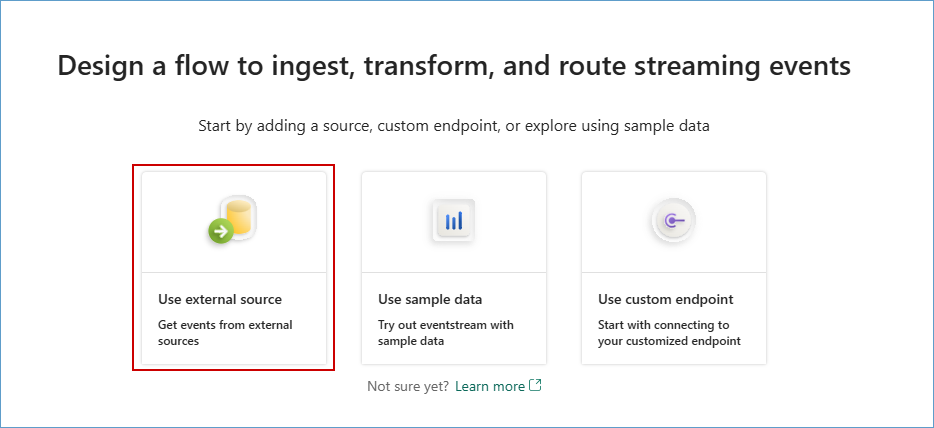
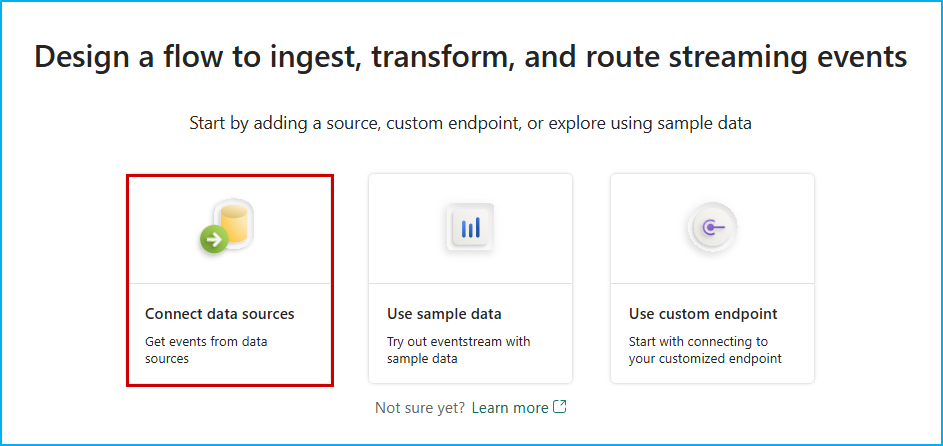
commit

diff --git a/exercise5.md b/exercise5.md
@@ -54,7 +54,7 @@ In the exercise, we’ll explore how Data Engineer, Eva, ingested real-time data
 
    ![Eventst-name1.png](media/labMedia/f47.png)
 
-6. Click on **Use external source**. 
+6. Click on **Connect data sources**. 
 
    ![eventhouse12.png](media/labMedia/eventhouse12.png)
 
@@ -66,7 +66,7 @@ In the exercise, we’ll explore how Data Engineer, Eva, ingested real-time data
 
    ![eventhouse13.png](media/labMedia/eventhouse13.png)
 
-9. Enter the value for the **Event Hub namespace** as **<inject key= "eventhubNamespace" enableCopy="true"/>** and enter the **Event Hub** value as thermostat.
+9. Enter the value for the **Event Hub namespace** as **<inject key= "eventhubNamespace" enableCopy="true"/>** and enter the **Event Hub** value as **thermostat**.
 
    ```BASH
    thermostat
@@ -75,12 +75,12 @@ In the exercise, we’ll explore how Data Engineer, Eva, ingested real-time data
    ![task-5.2.5-2.png](media/labMedia/task-5.2.5-2.png)
 
 
-14. Scroll down and select **Shared Access Key** from Authentication kind dropdown, enter the Shared Access Key Name as **thermostat**.
+10. Scroll down and select **Shared Access Key** from Authentication kind dropdown, enter the Shared Access Key Name as **thermostat**.
 
     ```BASH
         thermostat
     ```
-15. Provide the **Shared access Key** as: **<inject key= "EventHubPolicyPrimaryKey" enableCopy="true"/>** and click on **Connect** button.
+11. Provide the **Shared access Key** as: **<inject key= "EventHubPolicyPrimaryKey" enableCopy="true"/>** and click on **Connect** button.
 
     >**Note:** Do not check in box to allow connection to be utilized with either on-premises or VNet data gateways.
 
@@ -90,33 +90,33 @@ In the exercise, we’ll explore how Data Engineer, Eva, ingested real-time data
 
     ![pop-up3.png](media/labMedia/pop-up3.png)
 
-16. Select Data format as **JSON** and click on the **Next** button.
+12. Select Data format as **JSON** and click on the **Next** button.
 
     ![eventhouse15.png](media/labMedia/eventhouse15.png)
 
     >**Note:** Wait for the connection to be established.
 
-17. Click on the **Add** button.
+13. Click on the **Add** button.
 
     ![task-5.2.1new8.png](media/labMedia/task-5.2.1new8.png)
 
-18. In the Eventstream canvas, click on the **Add destination** dropdown and select **Eventhouse**.
+14. In the Eventstream canvas, click on the **Add destination** dropdown and select **Eventhouse**.
 
     ![sel-kql-db.png](media/labMedia/sel-kql-db.png)
 
-19. Select the **Event processing before ingestion** radio button, enter **RealTimeData** as the Destination name.
+15. Select the **Event processing before ingestion** radio button, enter **RealTimeData** as the Destination name.
 
     ```BASH
     RealTimeData
     ```
 
-20. In the **Workspace** field select **<inject key= "WorkspaceName" enableCopy="true"/>**. 
+16. In the **Workspace** field select **<inject key= "WorkspaceName" enableCopy="true"/>**. 
 
-21. In the **Eventhouse** dropdown select **Contoso-Eventhouse**.
+17. In the **Eventhouse** dropdown select **Contoso-Eventhouse**.
 
-22. In the **KQL Database** dropdown select **Contoso-Eventhouse**.
+18. In the **KQL Database** dropdown select **Contoso-Eventhouse**.
 
-23. Click on the **Create new** button under Destination table.
+19. Click on the **Create new** button under **KQL Destination table**.
 
     ![eventhouse5.png](media/labMedia/eventhouse5.png)
 

diff --git a/exercise4.md b/exercise4.md
@@ -58,6 +58,9 @@ Let’s see how Copilot for Notebook helps you, as a Data Engineer, quickly crea
 
     ![task-3.1.2.png](media/labMedia/l16.png)
 
+11. Click on **Connect** dropdown in the Home Ribbon and click on **New standard session** to connect to a session.
+
+    ![task-3.1.2.png](media/labMedia/standardsession.png)
 
 11. Click on the **Copilot** button and then click on the **Get Started** button.
 
@@ -178,25 +181,6 @@ The rest of the notebook has similar PySpark queries to explore customer churn p
     ![task-3.1.2.png](media/labMedia/l19.png)
 
     ![task-3.1.2.png](media/labMedia/l20.png)
- 
-<!--
-14. Click on **Environment** dropdown from the ribbon and select **New Environment**.
-
-![task-3.1.2.png](media/labMedia/f29.png)
-
-15. In the **Name** feild enter ``Myenv``.
-
-![task-3.1.2.png](media/labMedia/f30.png)
-
-16. Navigate back to the notebook from the left navigation pane.
-
-![task-3.1.2.png](media/labMedia/f31.png)
-
-17. Click on **Environment** dropdown from the ribbon and select **Myenv**.
-
-![task-3.1.2.png](media/labMedia/f32.png)
-
--->
 
 14. Click on **Run all** from the ribbon.
 
@@ -231,7 +215,7 @@ In this exercise, you’ll step into Data Analyst, Serena’s shoes and leverage
 
     ![task-5.2](media/labMedia/l21.png)
 
-3. In the Name field as enter **Contoso-assistant** 
+3. In the **Create data agent** pop-up: Enter **Contoso-assistant** in the name field and click on **Create** button.
 
     ```BASH
     Contoso-assistant
@@ -243,21 +227,25 @@ In this exercise, you’ll step into Data Analyst, Serena’s shoes and leverage
 
    ![task-5.2](media/labMedia/l23.png)
 
-5. Click on **Refresh**, expand **Tables**, then expand **dbo**, and select the following tables as shown in the screenshot.
+5. Click on **Refresh** button.
 
-- dimcustomer
-- dimdate
-- dimproduct
-- dimreseller
-- factinternetsales
-- factresellersales
+    ![task-5.2](media/labMedia/refresh9.png)
 
-   ![task-5.2](media/labMedia/items.png)
+6. Under lakehouse dropdown, expand **dbo**, and select the following tables as shown in the screenshot.
+
+    - dimcustomer
+    - dimdate
+    - dimproduct
+    - dimreseller
+    - factinternetsales
+    - factresellersales
+
+        ![task-5.2](media/labMedia/items.png)
 
     >**Note:** If the tables are not visible, hard refresh the VM browser using **Ctrl + Shft + R**.
 
 
-6. Type **What is the most sold product?** in the chatbox and click on the **Send** icon.
+7. Type **What is the most sold product?** in the chatbox and click on the **Send** icon.
 
     ```BASH
         What is the most sold product?
@@ -267,7 +255,7 @@ In this exercise, you’ll step into Data Analyst, Serena’s shoes and leverage
 
     **Note:** This may take some time; wait until a response is received.
 
-7. Data agent answered the question fairly well based on the selected tables.
+8. Data agent answered the question fairly well based on the selected tables.
 
    However, the SQL query needs some improvement, it orders the products by order quantity, when total sales revenue associated with the product is the most important consideration, as shown in the above screenshot.
 

diff --git a/exercise1.md b/exercise1.md
@@ -263,7 +263,7 @@ Using another great feature in Microsoft Fabric’s Data Factory, called Fast Co
 You will experience how easy it is to use Fast Copy to transform 100M rows of Litware's sales data into the Lakehouse.
 
 
-1. Click on **<inject key= "WorkspaceName" enableCopy="false"/>** and select **New item** then Click on **Dataflow Gen2**.
+1. In the left pane, click on the **<inject key="WorkspaceName" enableCopy="false"/>** workspace, then select **New item**, and click on **Dataflow Gen2**.
 
    ![task-1.3.1.png](media/labMedia/f9.png)
  
@@ -367,7 +367,7 @@ Congrats on completing this data transformation exercise!
 
 Now let's use Copilot in Data pipeline to leverage the data transformation activities.
 
-1. Click on the **<inject key= "WorkspaceName" enableCopy="false"/>** worspace at the **left** pane of the screen, then click on the **New item** button.
+1. Click on the **<inject key= "WorkspaceName" enableCopy="false"/>** workspace at the **left** pane of the screen, then click on the **New item** button.
 
    ![task_1.4.1.png](media/labMedia/task_1.4.1.png)
 
